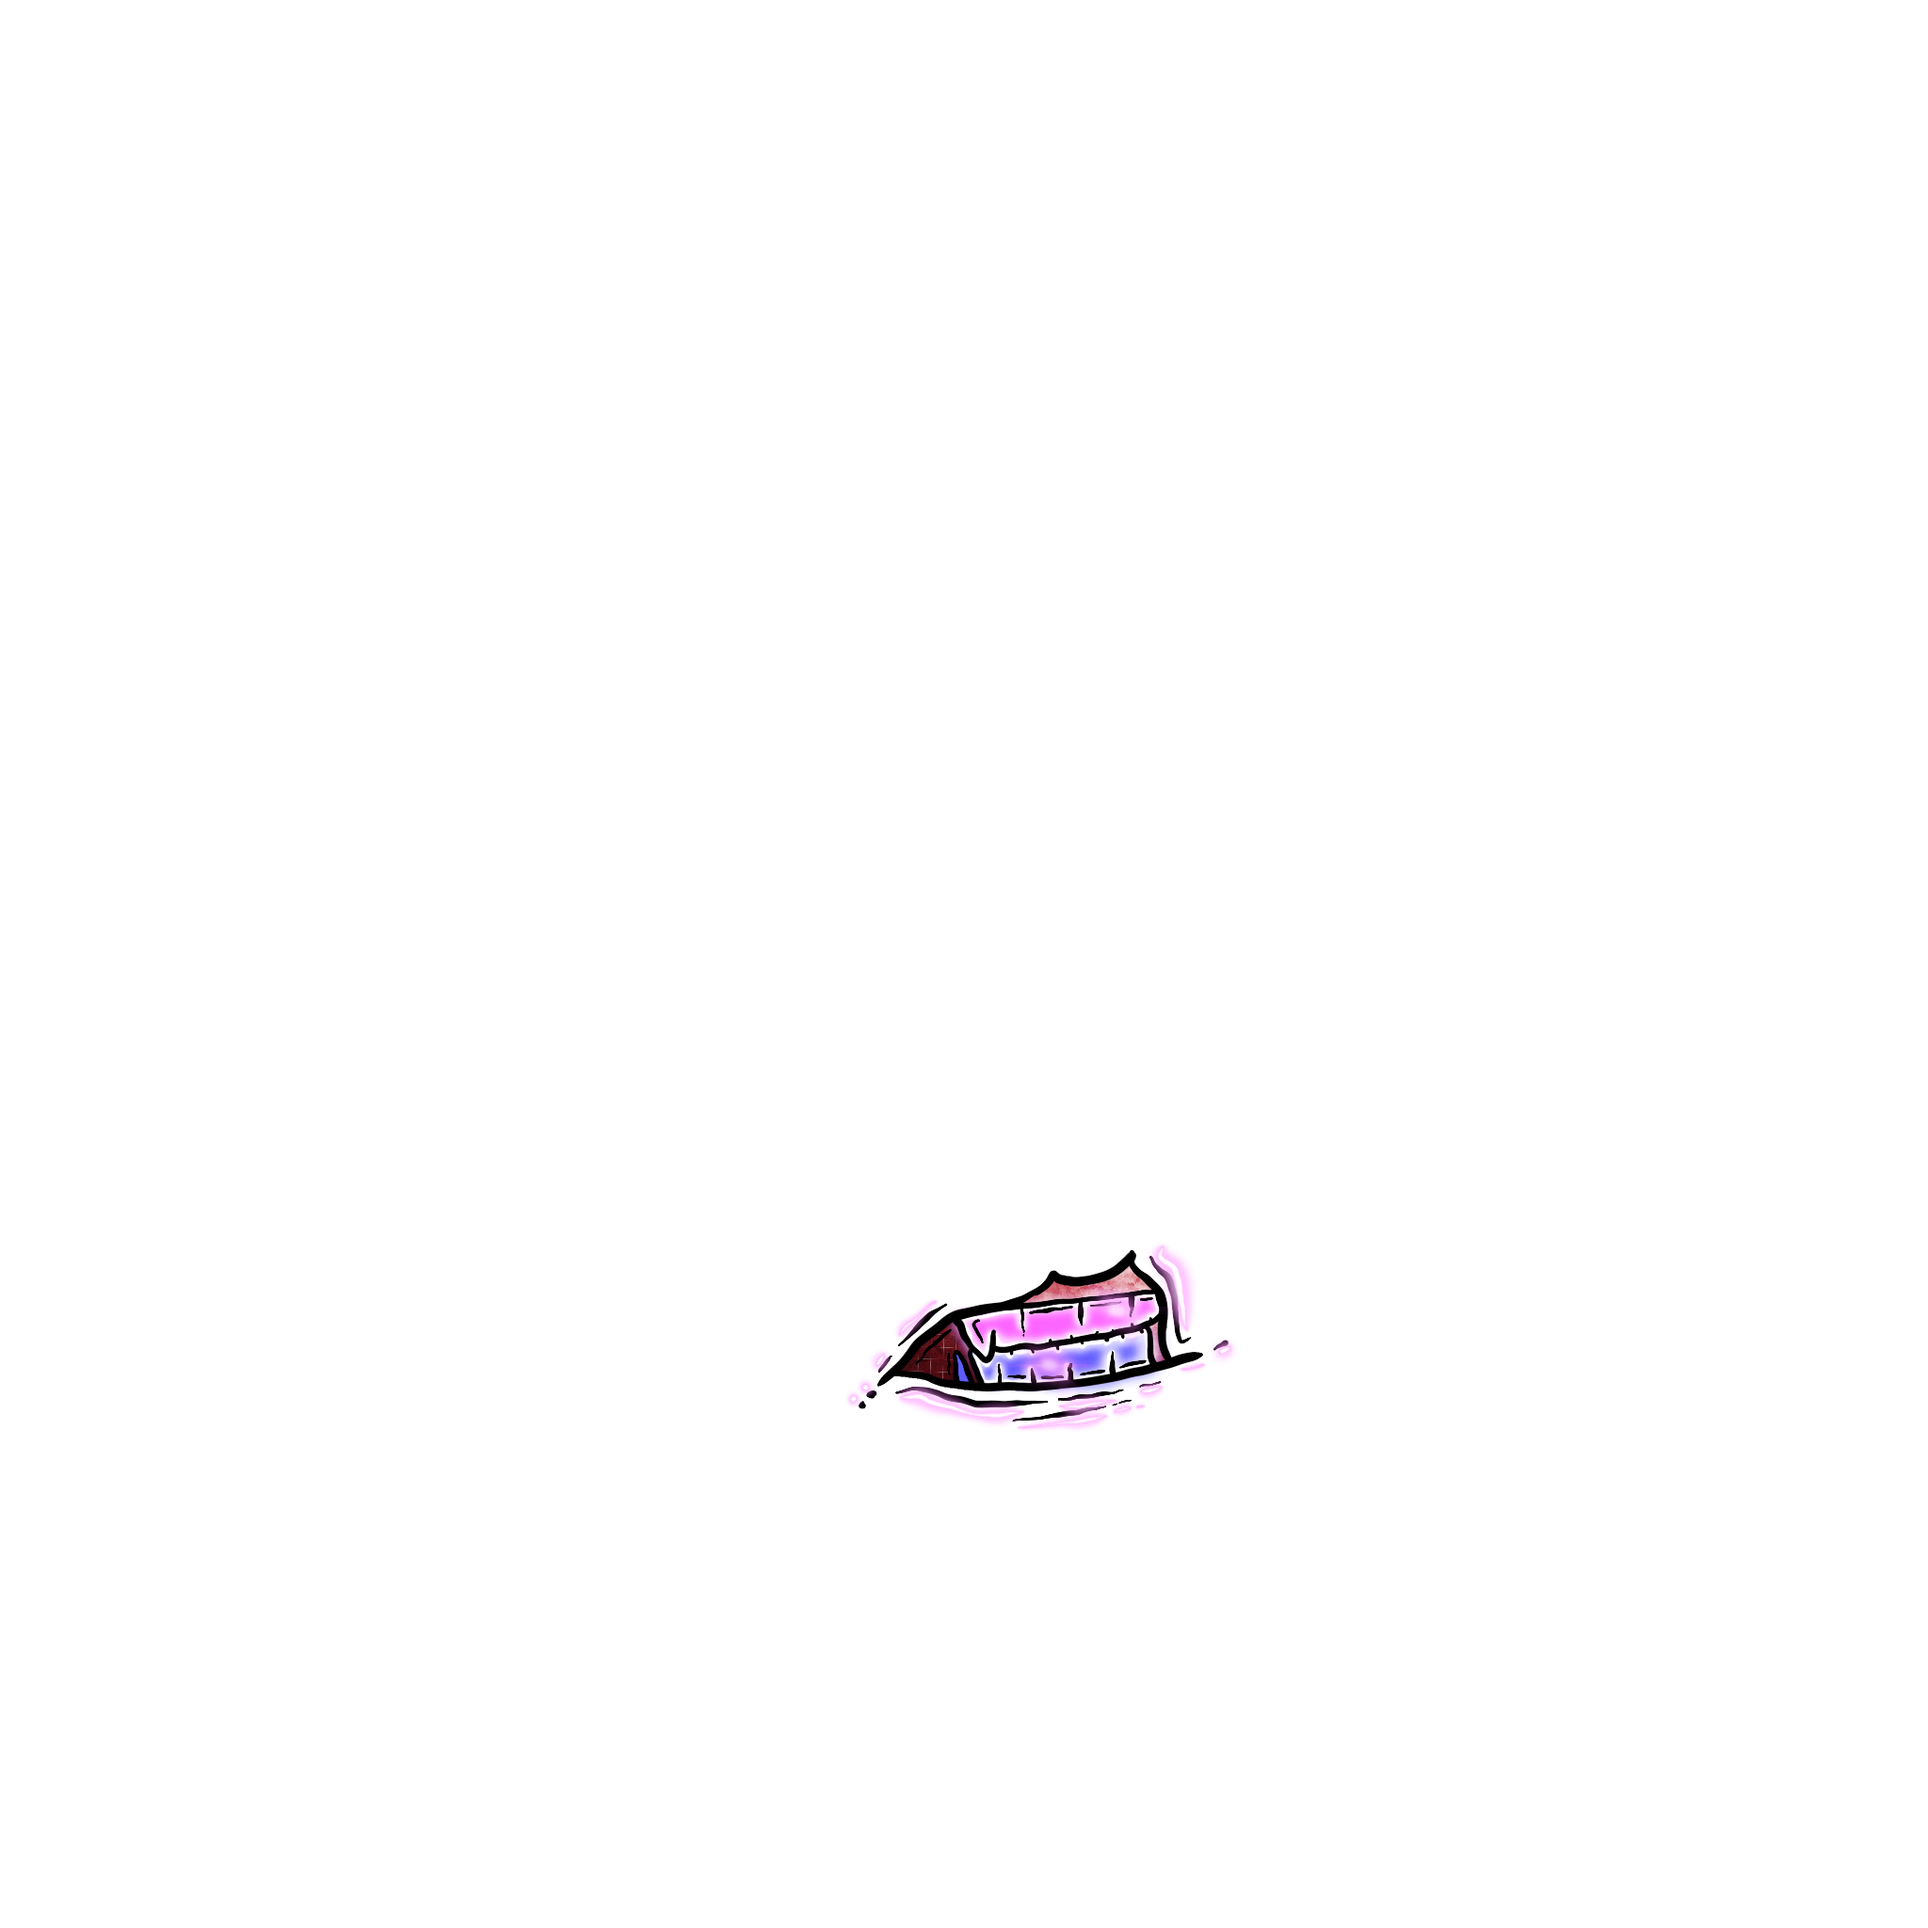
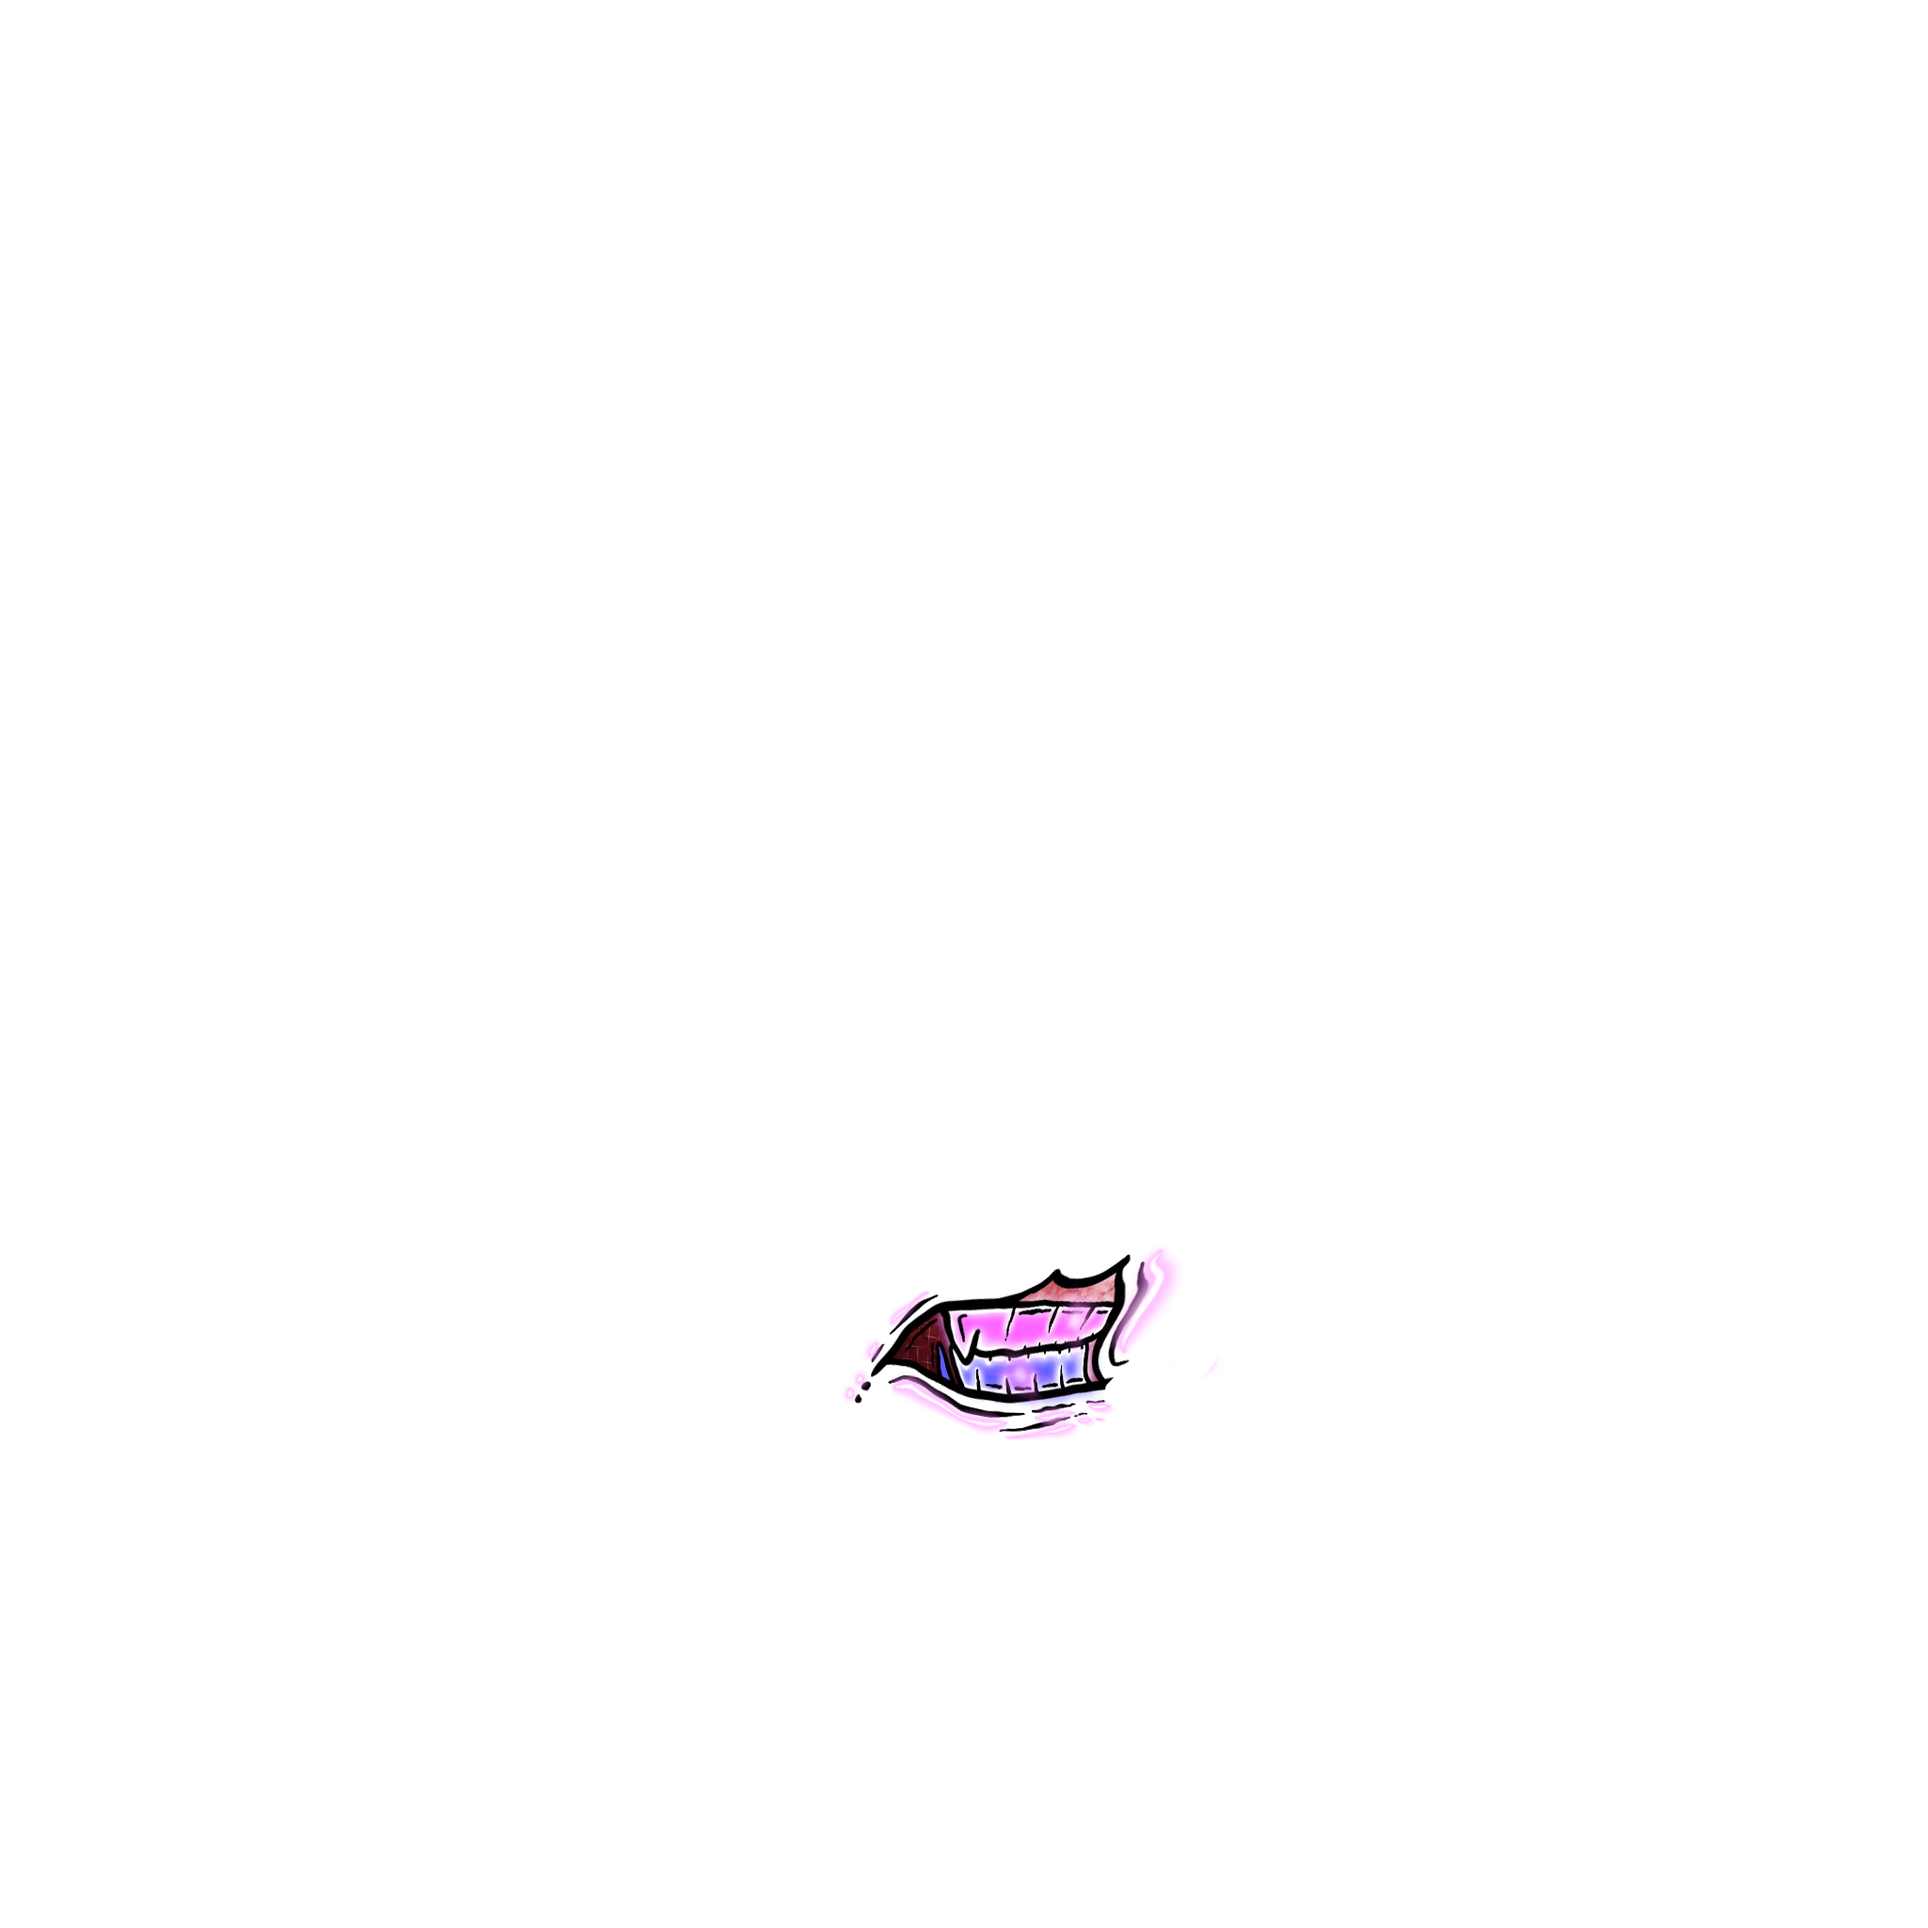
commit

Changed region(s): [[0.4375, 0.6562, 0.625, 0.75]]

diff --git a/src/config.js b/src/config.js
@@ -5,15 +5,15 @@ const { NETWORK } = require(`${basePath}/constants/network.js`);
 const network = NETWORK.eth;
 
 // General metadata for Ethereum
-const namePrefix = "Dragon";
+const namePrefix = "Flemish";
 const fee_recipient = "0x0Fee91dC8De1F052837A9e40C66954debF0d8383";
 const seller_fee_basis_points = 100; //# Indicates a 1% seller fee.
-const creator = "Mandaloka";
-const description = "10000 Dragon waiting to hatch";
-const baseUri = "ipfs://Qmbehwrs3vfgqE8id9ekyhp4CZaDxXUoVkUyYLBCpNSHpA";
+const creator = "Conundrum";
+const description = "10000 Flemish Society born into the world";
+const baseUri = "ipfs://_CID_";
 
 const solanaMetadata = {
-  symbol: "DGN",
+  symbol: "FLM",
   seller_fee_basis_points: 1000, // Define how much % you want from secondary market sales 1000 = 10%
   creators: [
     {
@@ -26,7 +26,7 @@ const solanaMetadata = {
 // If you have selected Solana then the collection starts from 0 automatically
 const layerConfigurations = [
   {
-    growEditionSizeTo: 100,
+    growEditionSizeTo: 10,
     layersOrder: [
       // RABBIT
       // { name: "Background" },
@@ -49,23 +49,20 @@ const layerConfigurations = [
       // { name: "Mate" },
 
       // FLEMISH
-      { name: "Background" },
-      { name: "Fur" },
-      { name: "Eyes" },
-      { name: "Mouth" },
-      { name: "Outfit" },
-      { name: "Accessories" },
-      { name: "Headwear" },
+      // { name: "Background" },
+      // { name: "Fur" },
+      // { name: "Eyes" },
+      // { name: "Outfit" },
+      // { name: "Headwear" },
+      // { name: "Accessories" },
+      // { name: "Mouth" },
 
       // DRAGON
       //{ name: "Background" },
-      // { name: "Body" },
-      // { name: "Head" },
-      // { name: "Eyes" },
-      // { name: "Face" },
-      // { name: "Pattern" },
-      // //{ name: "Clothes" },
-      // { name: "Accessories" },
+      { name: "Body" },
+      { name: "Eyes" },
+      { name: "Face" },
+      { name: "Accessories" },
     ],
   },
 ];

diff --git a/src/main.js b/src/main.js
@@ -5,7 +5,7 @@ const { creator, seller_fee_basis_points, fee_recipient } = require("./config");
 const sha1 = require(`${basePath}/node_modules/sha1`);
 const { createCanvas, loadImage } = require(`${basePath}/node_modules/canvas`);
 const buildDir = `${basePath}/build`;
-const layersDir = `${basePath}/layers/flemish/`;
+const layersDir = `${basePath}/layers/dragon/`;
 const {
   format,
   baseUri,
